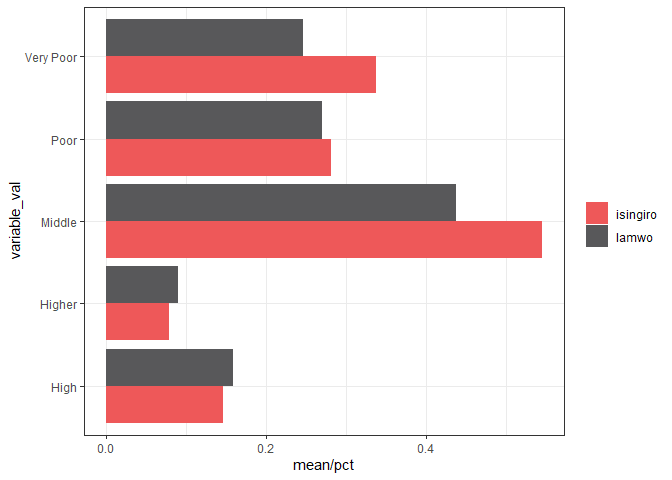
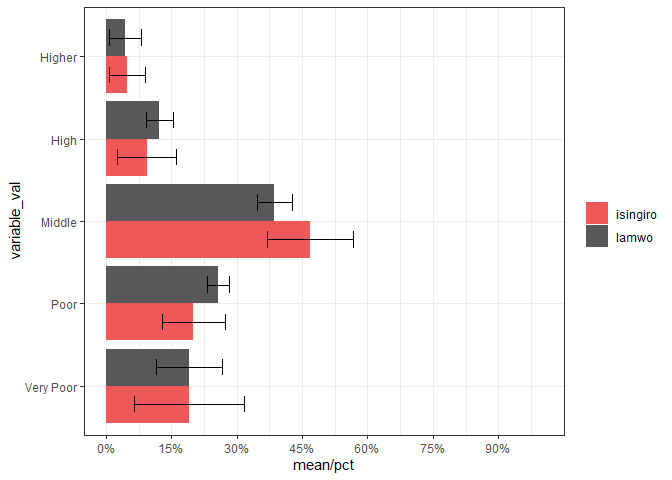
add error bars to bar graph

diff --git a/README.md b/README.md
@@ -47,14 +47,29 @@ iris %>%
 Often when assessment data is crunched (via butteR or HypegrammaR) the
 results are a long format data set. These long format datasets are also
 very easily piped into ggplot. The **scale\_fill\_reach** function will
-fill barplot with REACH-palette colors
+fill barplot with REACH-palette colors.
+
+First I relevel a categorical variable so that the bars will be
+displayed in the desired order.
 
 ``` r
-assessment_results %>% 
-  filter(variable=="i.income_cat") %>% 
+income_levels<- assessment_results %>% 
+  filter(variable=="i.income_cat", population=="combined") %>% 
+  mutate(variable_val= forcats::fct_relevel(variable_val,c("Very Poor","Poor","Middle","High","Higher")))
+
+
+income_levels %>% 
   ggplot(aes(x=variable_val,y=`mean/pct`, fill=subset_1_val))+
   geom_bar(stat="identity",position=position_dodge(width=0.9))+
-  coord_flip()+
+  geom_errorbar(aes(ymin= `mean/pct_low`,
+                    ymax= `mean/pct_upp`), 
+                width=0.4,
+                position = position_dodge(width = 0.9)
+  )+
+  scale_y_continuous(labels = scales::percent,
+                     breaks = seq(0,1,by=0.15),
+                     limits = c(0,1))+
+coord_flip()+
   scale_fill_reach()+
   theme_bw()+
   theme(
